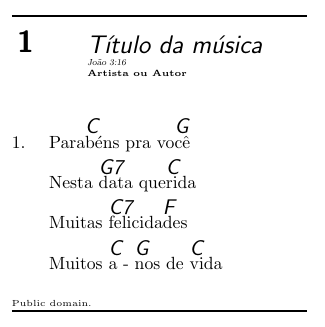
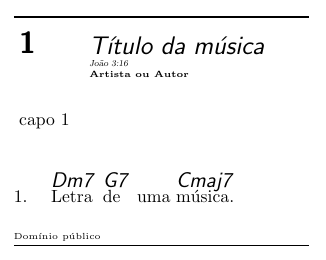
update README

diff --git a/README.md b/README.md
@@ -77,25 +77,22 @@ No Linux, a distribuição LaTeX mais comum é o TeX Live. Você pode instalá-l
 \usepackage[chorded]{songs}
 
 \begin{document}
-
+	
 \begin{songs}{}
 
 \beginsong{Título da música}[
-    by={Artista ou Autor},
-    sr={João 3:16},
-    cr={Public domain.}] 
+  by={Artista ou Autor},
+  sr={João 3:16},
+  cr={Domínio público}] 
 
 \beginverse
-Para\[C]béns pra vo\[G]cê \\
-Nesta \[G7]data que\[C]rida \\
-Muitas \[C7]felicida\[F]des \\
-Muitos \[C]a\[G]nos de \[C]vida \\
+\[Dm7]Letra \[G7]de uma \[Cmaj7]música. \\
 \endverse 
 
 \endsong 
 
 \end{songs} 
-
+	
 \end{document}
 ```
 
@@ -120,9 +117,21 @@ O pacote `songs` oferece várias opções para personalizar o tipo de livro de m
 O pacote pode produzir quatro tipos principais de livros:
 
 1. **Livros de Letras (`lyric`)** : Exibem apenas as letras das músicas, omitindo os acordes.
+```latex
+\usepackage[lyrics]{songs}
+```
 2. **Livros de Acordes (`chorded`)** : Incluem tanto as letras quanto os acordes, além de informações adicionais para músicos (como notas musicais).
+```latex
+\usepackage[chorded]{songs}
+```
 3. **Slides para Projeção (`slides`)** : Formata as músicas em slides grandes, centralizados, uma música por página, adequados para projeção em cultos ou eventos.
+```latex
+\usepackage[slides]{songs}
+```
 4. **Texto Simples (`rawtext`)** : Gera um arquivo de texto simples contendo apenas as letras das músicas, sem acordes.
+```latex
+\usepackage[rawtext]{songs}
+```
 
 Por padrão, se nenhuma opção for especificada, o pacote gera um **livro de acordes** (`chorded`). As opções `slides` e `chorded` podem ser combinadas para criar slides com acordes.
 
@@ -132,18 +141,15 @@ O comportamento do comando `\capo`. Normalmente, `\capo{n}` sugere o uso de um c
 
 ```latex
 \beginsong{Título da música}[
-    by={Artista ou Autor},
-    sr={João 3:16},
-    cr={Public domain.}]
+  by={Artista ou Autor},
+  sr={João 3:16},
+  cr={Domínio público}] 
 
-\capo{2}
+\capo{1}
 
 \beginverse
-Para\[C]béns pra vo\[G]cê \\
-Nesta \[G7]data que\[C]rida \\
-Muitas \[C7]felicida\[F]des \\
-Muitos \[C]a\[G]nos de \[C]vida \\
-\endverse
+\[Dm7]Letra \[G7]de uma \[Cmaj7]música. \\
+\endverse 
 
 \endsong
 ```
@@ -158,7 +164,7 @@ Muitos \[C]a\[G]nos de \[C]vida \\
 
 ![](assets/ex_03.png)
 
-## Caixas Sombreadas
+## Caixas de Título
 
 - A opção `noshading` remove todas as caixas sombreadas, como aquelas ao redor dos números das músicas ou notas textuais. Isso pode ser útil se essas caixas causarem problemas de impressão ou consumirem muita tinta.
 
@@ -237,8 +243,8 @@ Letra do refrão aqui. \\
 - **Sequências de acordes** : Sequências de acordes podem ser escritas juntas ou separadas. Ambos os exemplos abaixo produzem o mesmo resultado:
 
 ```latex
-\[A]\[B]\[Em]Música. \\
-\[A B Em]Música. \\
+\[A]\[B]\[Em]Música, músi\[C]ca. \\
+\[A B Em]Música, músi\[C]ca. \\
 ```
 
 ![](assets/ex_08.png)
@@ -249,11 +255,12 @@ Letra do refrão aqui. \\
 
 ```latex
 \beginverse
-\[G]Pri\[Em]meiro \[C]ver\[D]so.
+\[G]Pri\[Em]meiro \[C]ver\[D]so. \\
 \endverse
 
 \beginverse
-^Segundo verso ^com os ^mesmos acor^des.
+^Segundo verso ^com \\
+Os ^mesmos acor^des. \\
 \endverse
 ```
 
